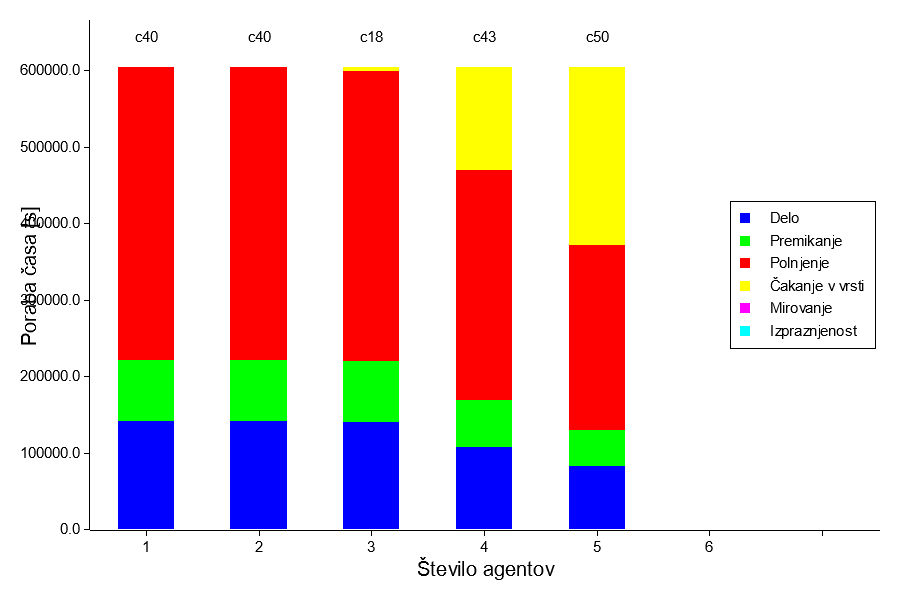
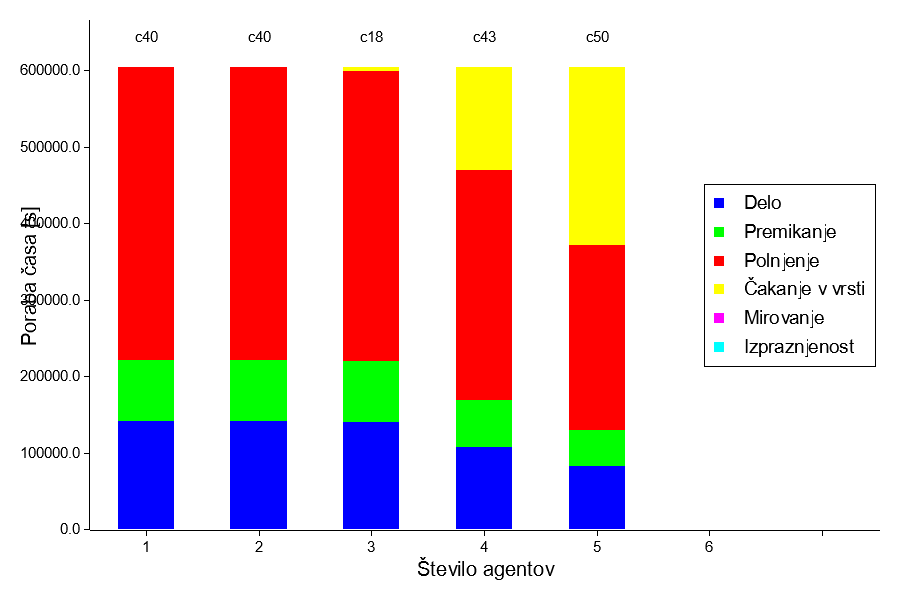
best_combination image bigger text in legend

Changed region(s): [[0.7778, 0.3, 0.9644, 0.6]]

diff --git a/crates/farmbotsim-analysis/src/bin/analyze.rs b/crates/farmbotsim-analysis/src/bin/analyze.rs
@@ -726,7 +726,7 @@ fn plot_best_combinations(
     let axis_desc_size = 25;
     let axis_label_size = 18;
     let combo_label_size = 18;
-    let legend_size = 18;
+    let legend_size = 23;
     let root = BitMapBackend::new(png_path, (900, 600)).into_drawing_area();
     root.fill(&WHITE)?;
 
